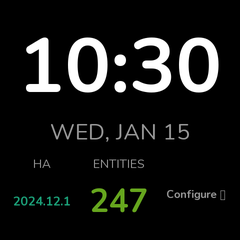
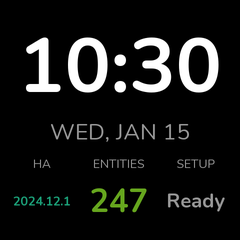
fix: simplify welcome setup prompt

Changed region(s): [[0.6708, 0.7875, 0.9625, 0.9042], [0.7292, 0.6417, 0.9042, 0.7]]

diff --git a/custom_components/geekmagic/coordinator.py b/custom_components/geekmagic/coordinator.py
@@ -422,9 +422,10 @@ class GeekMagicCoordinator(DataUpdateCoordinator):
             WidgetConfig(
                 widget_type="text",
                 slot=3,
+                label="Setup",
                 color=COLOR_GRAY,
                 options={
-                    "text": "Configure →",
+                    "text": "Ready",
                     "size": "small",
                     "align": "center",
                 },

diff --git a/scripts/generate_samples.py b/scripts/generate_samples.py
@@ -2104,9 +2104,10 @@ def generate_welcome_screen(renderer: Renderer, output_dir: Path) -> None:
         WidgetConfig(
             widget_type="text",
             slot=3,
+            label="Setup",
             color=COLOR_GRAY,
             options={
-                "text": "Configure →",
+                "text": "Ready",
                 "size": "small",
                 "align": "center",
             },